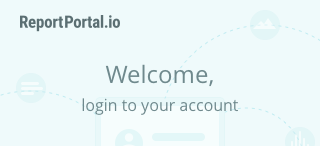
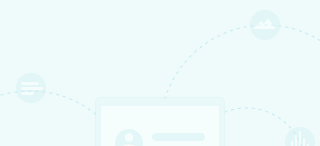
Slyle fixes for registration and login pages

Changed region(s): [[0.25, 0.6849, 0.75, 0.7945], [0.3125, 0.4384, 0.6875, 0.5753], [0.0625, 0.0822, 0.375, 0.2192]]

diff --git a/src/main/resources/public/js/src/localizations/default.js b/src/main/resources/public/js/src/localizations/default.js
@@ -239,9 +239,9 @@ define(['util'], function () {
             restorePassword: "Restore Password",
             emailToBegin: "Enter email to begin",
             forgotPassword: "Forgot password?",
-            welcomeMsg: '<span class="welcome">Welcome,</span><br>login to your account',
-            welcomeMsgForgotPass: '<span class="welcome">Forgot password?</span><br>enter your email to restore',
-            welcomeMsgResetPass: '<span class="welcome">Change password</span><br>enter new password and confirm it',
+            welcomeMsg: '<span class="big">Welcome,</span><br>login to your account',
+            welcomeMsgForgotPass: '<span class="big">Forgot password?</span><br>enter your email to restore',
+            welcomeMsgResetPass: '<span class="big">Change password</span><br>enter new password and confirm it',
             epamLogin: '< Epam login >',
             gitHubLogin: '<svg aria-hidden="true" height="28" version="1.1" viewBox="0 0 16 16" width="28"><path' +
             ' d="M8 0C3.58 0 0 3.58 0 8c0 3.54 2.29 6.53 5.47 7.59.4.07.55-.17.55-.38' +
@@ -1275,7 +1275,9 @@ define(['util'], function () {
         },
 
         registration: {
-            welcomeMsg: '<span class="welcome">Welcome,</span><br>complete the registration form',
+            caption: 'It should only take a couple of minutes to get started',
+            failCaption: '<span class="big">Oops,</span><br>this invitation has expired or already used',
+            welcomeMsg: '<span class="big">Welcome,</span><br>complete the registration form',
             loginHint: '1-128 symbols, Latin, numeric characters, symbols: hyphen, underscore',
             nameHint: '3-256 symbols, Latin, Cyrillic, numeric characters, symbols: hyphen, underscore, dot, space',
             passwordHint: '4-25 symbols'

diff --git a/src/main/resources/public/scss/registration/registration.scss b/src/main/resources/public/scss/registration/registration.scss
@@ -50,6 +50,7 @@
   }
 
   .left-block {
+    position: relative;
     width: 50%;
     height: 100%;
     float: left;
@@ -60,6 +61,27 @@
 
     @media (max-width: 1010px) {
       display: none;
+    }
+
+    .logo-label {
+      position: absolute;
+      top: 30px;
+      left: 60px;
+      width: 140px;
+      height: 23px;
+      background-image: url(../../img/rp-logo.svg);
+      background-repeat: no-repeat;
+      -webkit-background-size: 100%;
+      background-size: 100%;
+    }
+
+    .caption {
+      width: 300px;
+      margin: 410px auto 0px auto;
+      text-align: center;
+      font-family: $OpenSansRegular;
+      font-size: 16px;
+      color: #6f898d;
     }
   }
 
@@ -97,13 +119,38 @@
       display: none;
       width: 100%;
       height: 146px;
-      background-image: url('../../img/registration/header-mobile.png');
+      background-image: url('../../img/registration/registration-mobile.png');
       background-repeat: no-repeat;
       -webkit-background-size: 100%;
       background-size: 100%;
 
       @media (max-width: 1010px) {
         display: block;
+      }
+
+      .logo-label {
+        position: absolute;
+        top: 15px;
+        left: 20px;
+        width: 100px;
+        height: 16px;
+        background-image: url(../../img/rp-logo.svg);
+        background-repeat: no-repeat;
+        -webkit-background-size: 100%;
+        background-size: 100%;
+      }
+      .caption {
+        display: block;
+        width: 100%;
+        padding-top: 60px;
+        font-family: $OpenSansRegular, sans-serif;
+        color: #6f898d;;
+        font-size: 16px;
+        text-align: center;
+
+        .welcome {
+          font-size: 24px;
+        }
       }
     }
 

diff --git a/src/main/resources/public/scss/registration/fail-invitation.scss b/src/main/resources/public/scss/registration/fail-invitation.scss
@@ -26,7 +26,7 @@
   margin: 0 auto;
   border-radius: 2px;
   box-shadow: 0 1px 3px 0 $COLOR--skipped;
-  background-image: url('../../img/registration/invitation-fail.png');
+  background-image: url('../../img/registration/registration-fail.png');
   background-repeat: no-repeat;
   -webkit-background-size: contain;
   background-size: contain;
@@ -34,7 +34,7 @@
   @media (max-width: 1010px) {
     left: 0;
     width: 320px;
-    background-image: url('../../img/registration/invitation-fail-mobile.png');
+    background-image: url('../../img/registration/registration-fail-mobile.png');
   }
 
   .logo-label {
@@ -43,7 +43,7 @@
     height: 23px;
     top: 31px;
     left: 59px;
-    background-image: url('../../img/registration/logo.png');
+    background-image: url('../../img/rp-logo.svg');
     background-repeat: no-repeat;
     -webkit-background-size: 100%;
     background-size: 100%;
@@ -53,6 +53,36 @@
       left: 20px;
       width: 100px;
       height: 17px;
+    }
+  }
+
+  .caption {
+    position: absolute;
+    top: 250px;
+    left: 75%;
+    display: block;
+    width: 335px;
+    margin-bottom: 50px;
+    font-family: $OpenSansRegular, sans-serif;
+    color: #6f898d;;
+    font-size: 26px;
+    text-align: center;
+    -webkit-transform: translateX(-50%);
+    -ms-transform: translateX(-50%);
+    transform: translateX(-50%);
+
+    .big {
+      font-size: 32px;
+    }
+
+    @media (max-width: 1010px) {
+      top: 180px;
+      left: 50%;
+      width: 240px;
+      font-size: 16px;
+      .big {
+        font-size: 24px;
+      }
     }
   }
 

diff --git a/src/main/resources/public/scss/loginPage/login-reset.scss b/src/main/resources/public/scss/loginPage/login-reset.scss
@@ -25,13 +25,39 @@
     width: 100%;
     height: 146px;
     margin-bottom: 30px;
-    background-image: url('../../img/login/change-pass-mobile.png');
+    background-image: url('../../img/login/login-mobile.png');
     background-repeat: no-repeat;
     -webkit-background-size: 100%;
     background-size: 100%;
 
     @media (max-width: 1010px) {
       display: block;
+    }
+
+    .logo-label {
+      position: absolute;
+      top: 15px;
+      left: 20px;
+      width: 100px;
+      height: 16px;
+      background-image: url(../../img/rp-logo.svg);
+      background-repeat: no-repeat;
+      -webkit-background-size: 100%;
+      background-size: 100%;
+    }
+
+    .welcome-msg {
+      display: block;
+      width: 100%;
+      padding-top: 60px;
+      font-family: $OpenSansRegular, sans-serif;
+      color: #6f898d;;
+      font-size: 16px;
+      text-align: center;
+
+      .big {
+        font-size: 24px;
+      }
     }
   }
   .welcome-msg {
@@ -43,7 +69,7 @@
     font-size: 24px;
     text-align: center;
     white-space: nowrap;
-    .welcome {
+    .big {
       font-size: 32px;
     }
 

diff --git a/src/main/resources/public/scss/loginPage/login-restore.scss b/src/main/resources/public/scss/loginPage/login-restore.scss
@@ -32,13 +32,39 @@
     width: 100%;
     height: 146px;
     margin-bottom: 30px;
-    background-image: url('../../img/login/forgot-pass-mobile.png');
+    background-image: url('../../img/login/login-mobile.png');
     background-repeat: no-repeat;
     -webkit-background-size: 100%;
     background-size: 100%;
 
     @media (max-width: 1010px) {
       display: block;
+    }
+
+    .logo-label {
+      position: absolute;
+      top: 15px;
+      left: 20px;
+      width: 100px;
+      height: 16px;
+      background-image: url(../../img/rp-logo.svg);
+      background-repeat: no-repeat;
+      -webkit-background-size: 100%;
+      background-size: 100%;
+    }
+
+    .welcome-msg {
+      display: block;
+      width: 100%;
+      padding-top: 60px;
+      font-family: $OpenSansRegular, sans-serif;
+      color: #6f898d;;
+      font-size: 16px;
+      text-align: center;
+
+      .big {
+        font-size: 24px;
+      }
     }
   }
   .welcome-msg {
@@ -49,7 +75,7 @@
     color: #6f898d;
     font-size: 24px;
     text-align: center;
-    .welcome {
+    .big {
       font-size: 32px;
     }
 

diff --git a/src/main/resources/public/scss/loginPage/login-login.scss b/src/main/resources/public/scss/loginPage/login-login.scss
@@ -33,6 +33,32 @@
     @media (max-width: 1010px) {
       display: block;
     }
+
+    .logo-label {
+      position: absolute;
+      top: 15px;
+      left: 20px;
+      width: 100px;
+      height: 16px;
+      background-image: url(../../img/rp-logo.svg);
+      background-repeat: no-repeat;
+      -webkit-background-size: 100%;
+      background-size: 100%;
+    }
+
+    .welcome-msg {
+      display: block;
+      width: 100%;
+      padding-top: 60px;
+      font-family: $OpenSansRegular, sans-serif;
+      color: #6f898d;;
+      font-size: 16px;
+      text-align: center;
+
+      .big {
+        font-size: 24px;
+      }
+    }
   }
   .welcome-msg {
     display: block;
@@ -43,7 +69,7 @@
     font-size: 24px;
     text-align: center;
 
-    .welcome {
+    .big {
       font-size: 32px;
     }
 

diff --git a/src/main/resources/public/templates/register/tpl-register.html b/src/main/resources/public/templates/register/tpl-register.html
@@ -1,8 +1,13 @@
 <div class="left-block">
+    <div class="logo-label"></div>
+    <div class="caption"><%= data.text.registration.caption %></div>
 </div>
 <div class="right-block">
     <span class="welcome-msg"><%= data.text.registration.welcomeMsg %></span>
-    <div class="header-mobile"></div>
+    <div class="header-mobile">
+        <div class="logo-label"></div>
+        <div class="caption"><%= data.text.registration.welcomeMsg %></div>
+    </div>
     <form class="registration-form rp-form">
         <label class="rp-field">
             <div class="icon-wrapper"><i class="material-icons">person_outline</i></div>

diff --git a/src/main/resources/public/templates/login/tpl-new-login-reset.html b/src/main/resources/public/templates/login/tpl-new-login-reset.html
@@ -1,4 +1,7 @@
-<div class="header-mobile"></div>
+<div class="header-mobile">
+    <div class="logo-label"></div>
+    <span class="welcome-msg"><%= data.text.login.welcomeMsgResetPass %></span>
+</div>
 <span class="welcome-msg"><%= data.text.login.welcomeMsgResetPass %></span>
 <form class="reset-form rp-form">
     <label class="rp-field pass-field">

diff --git a/src/main/resources/public/templates/login/tpl-new-login-login.html b/src/main/resources/public/templates/login/tpl-new-login-login.html
@@ -1,4 +1,7 @@
-<div class="header-mobile"></div>
+<div class="header-mobile">
+    <div class="logo-label"></div>
+    <span class="welcome-msg"><%= data.text.login.welcomeMsg %></span>
+</div>
 <span class="welcome-msg"><%= data.text.login.welcomeMsg %></span>
 <form class="login-form rp-form">
     <div class="external-login" data-js-github-login>

diff --git a/src/main/resources/public/templates/login/tpl-new-login-restore.html b/src/main/resources/public/templates/login/tpl-new-login-restore.html
@@ -1,4 +1,7 @@
-<div class="header-mobile"></div>
+<div class="header-mobile">
+    <div class="logo-label"></div>
+    <span class="welcome-msg"><%= data.text.login.welcomeMsgForgotPass %></span>
+</div>
 <span class="welcome-msg"><%= data.text.login.welcomeMsgForgotPass %></span>
 <form class="restore-form rp-form">
     <label class="rp-field">

diff --git a/src/main/resources/public/scss/loginPage/login.scss b/src/main/resources/public/scss/loginPage/login.scss
@@ -60,7 +60,7 @@
     .logo-label {
       width: 140px;
       height: 23px;
-      background-image: url('../../img/login/logo.png');
+      background-image: url('../../img/rp-logo.svg');
       background-repeat: no-repeat;
       -webkit-background-size: 100%;
       background-size: 100%;

diff --git a/src/main/resources/public/templates/register/tpl-register-messages.html b/src/main/resources/public/templates/register/tpl-register-messages.html
@@ -1,4 +1,5 @@
 <div class="invitation-fail">
     <div class="logo-label"></div>
+    <div class="caption"><%= data.text.registration.failCaption %></div>
     <div class="backlink"><span>Visit </span><a href="http://reportportal.io">ReportPortal.io</a></div>
 </div>
